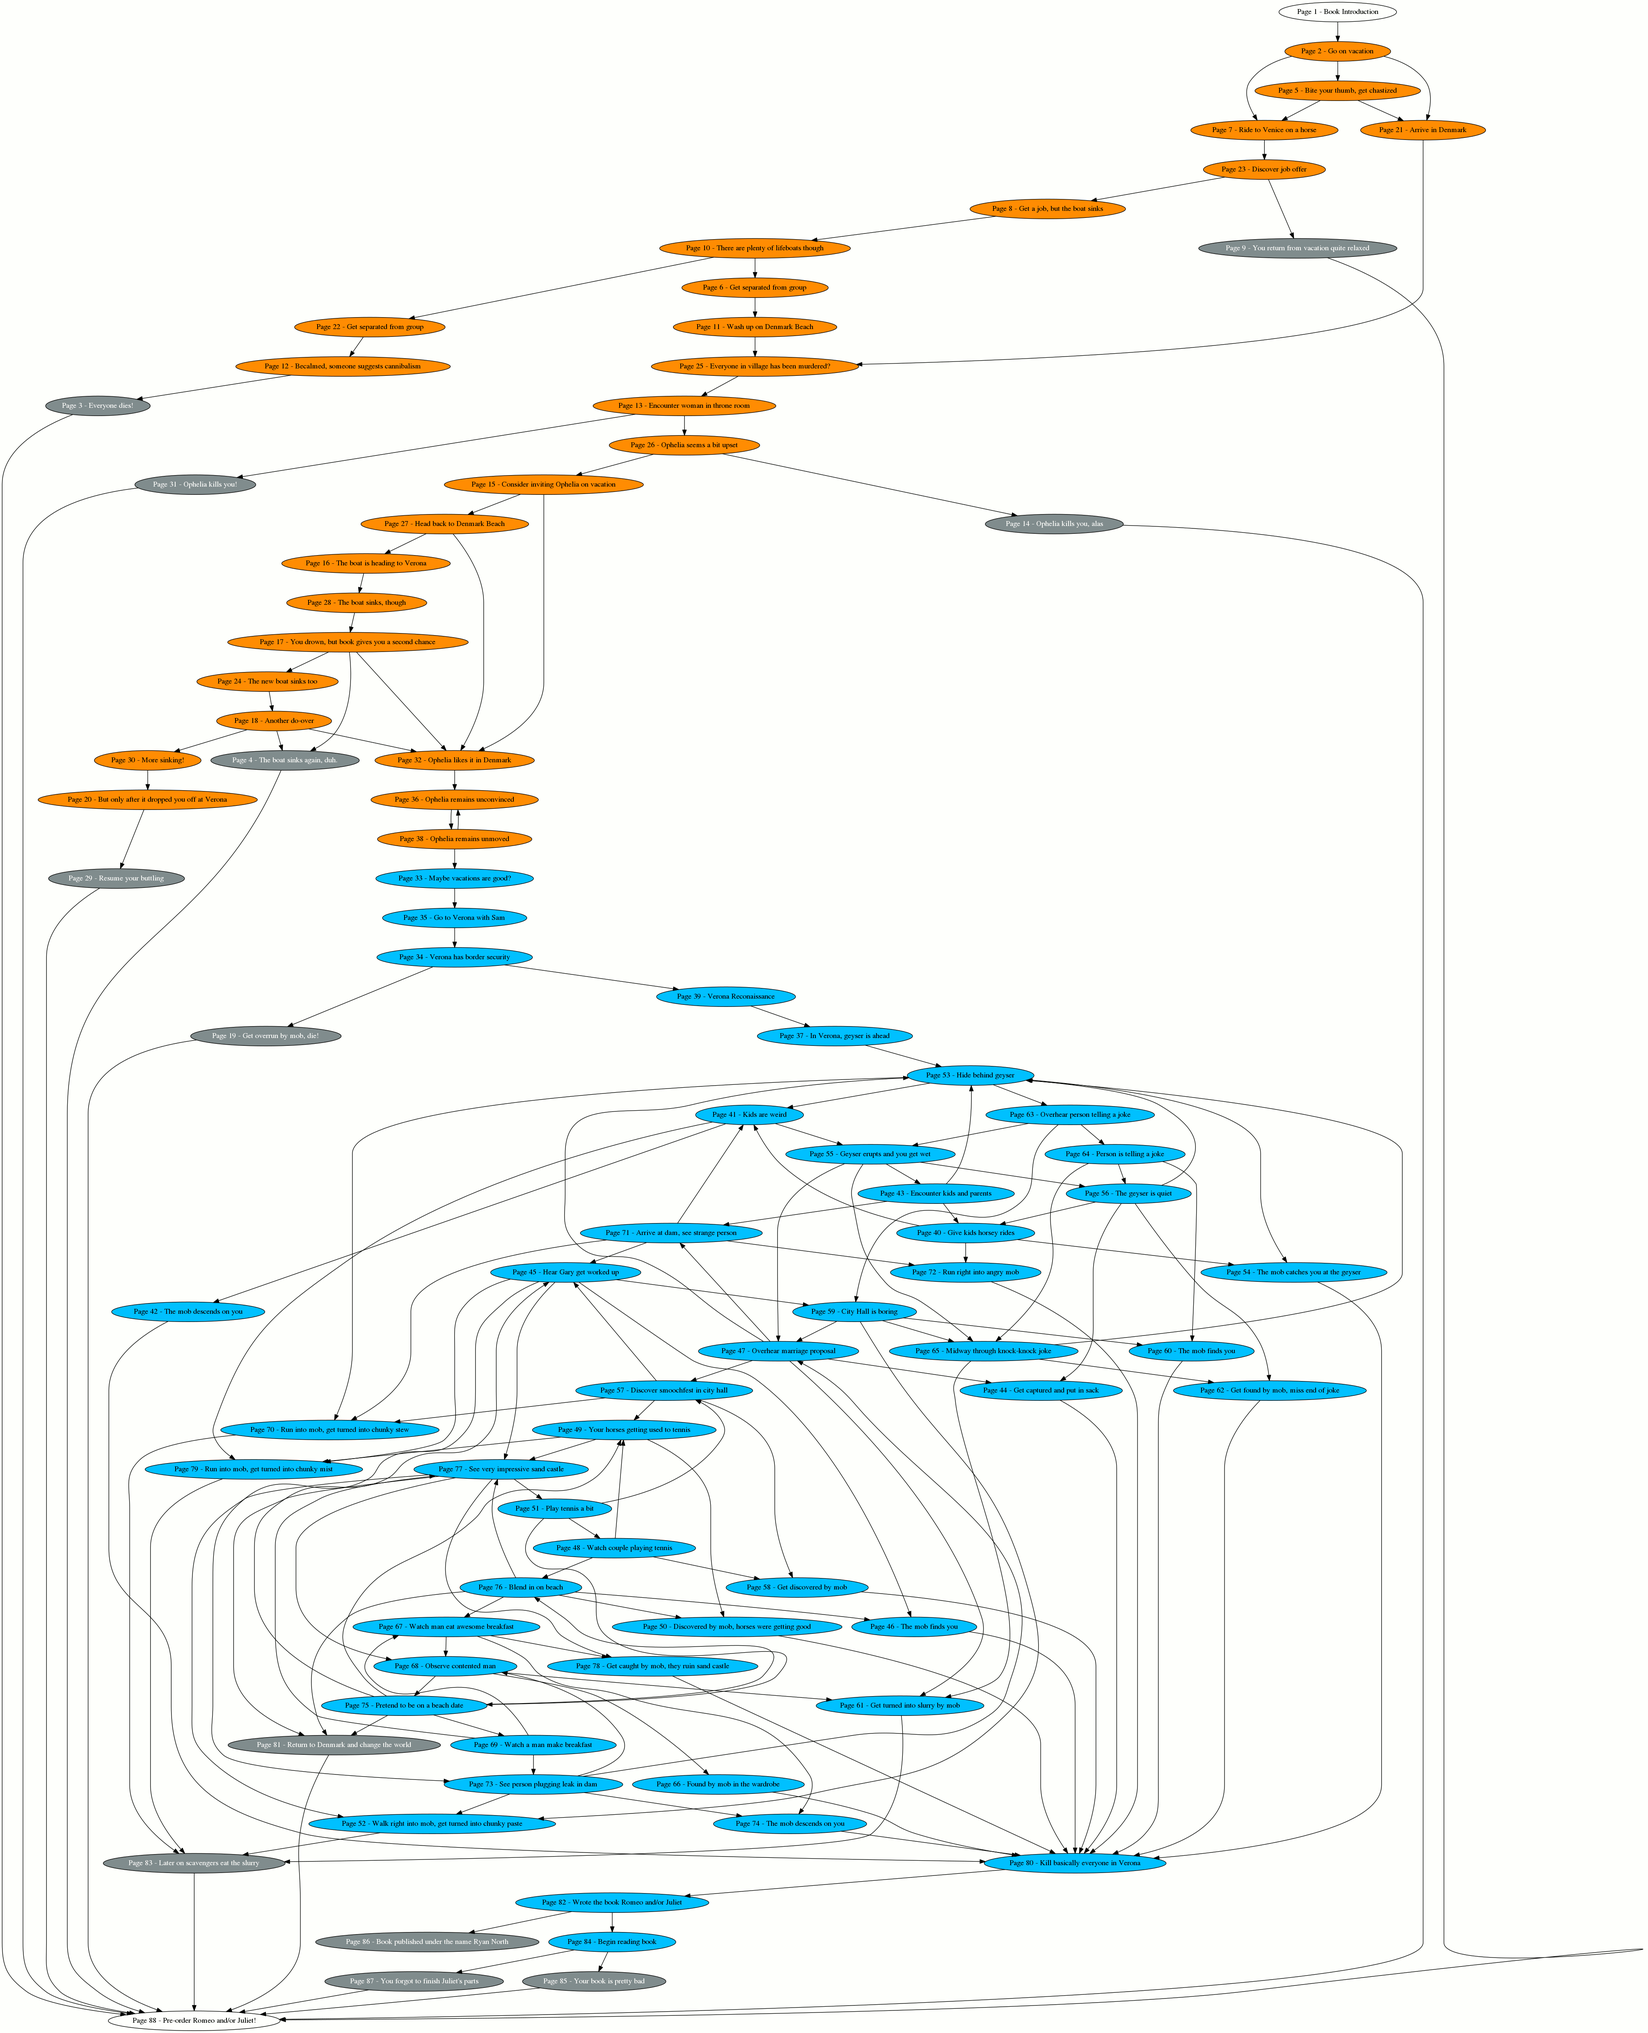
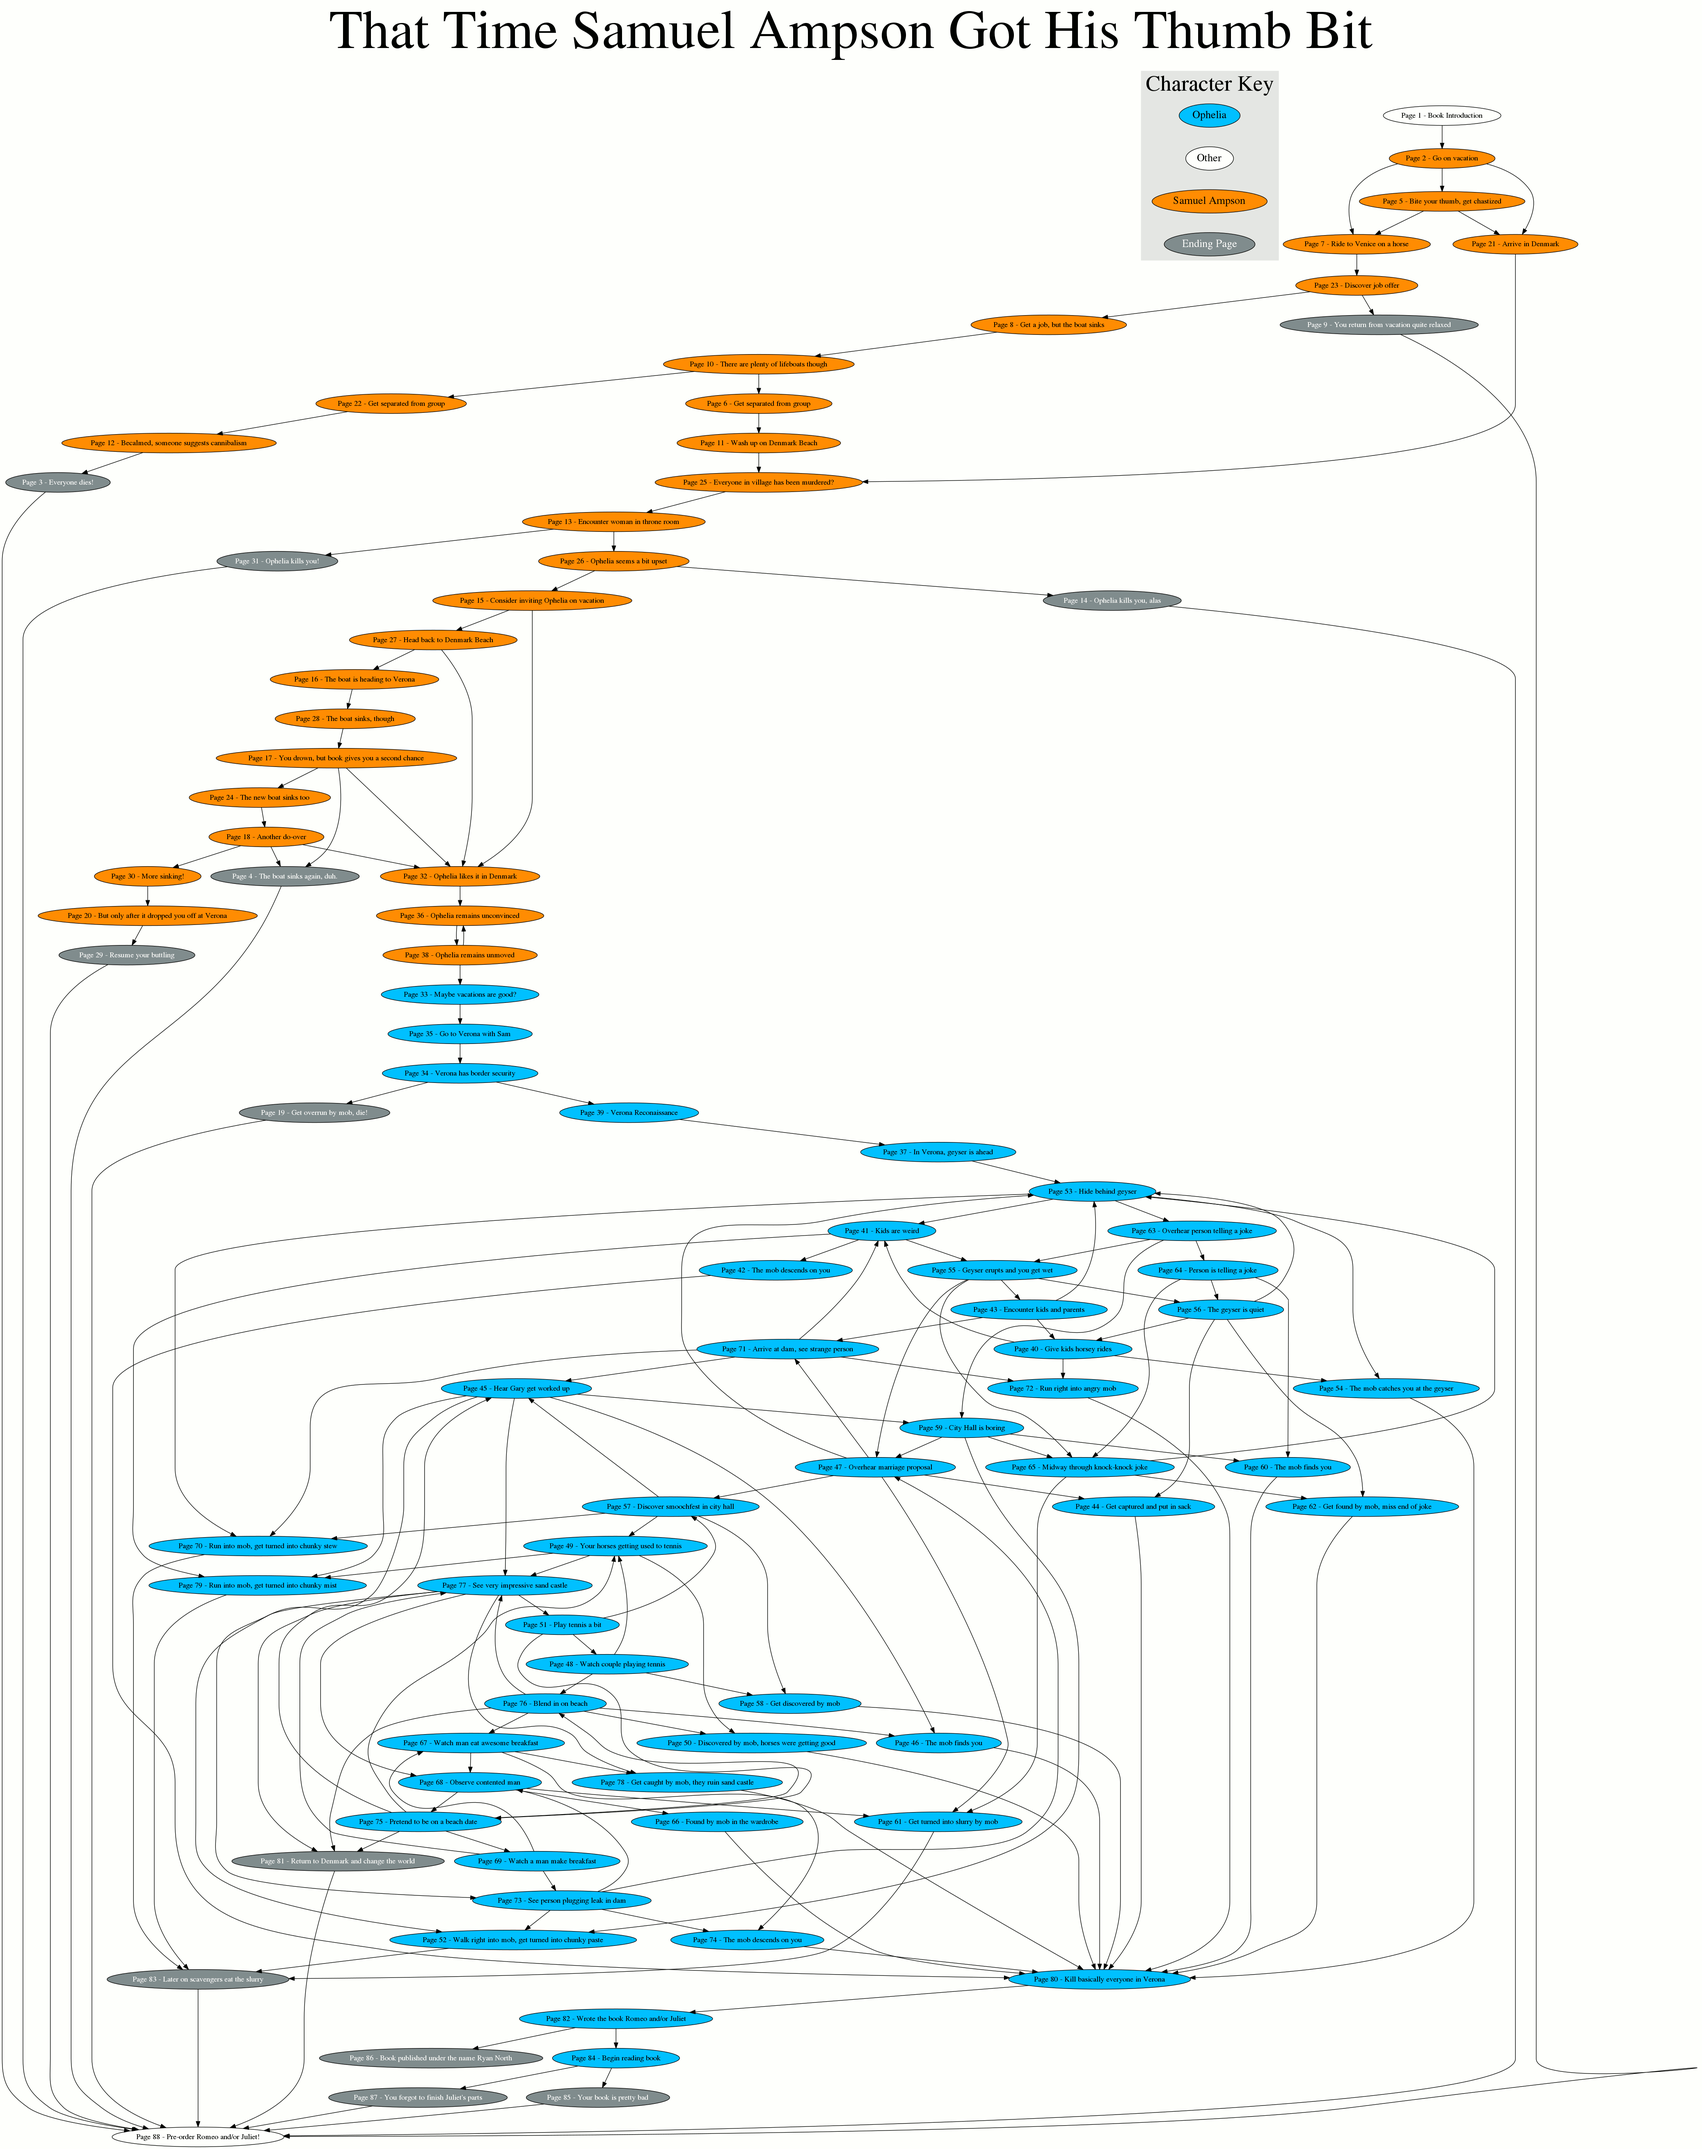
Added a character/shape key to the graphviz output, as well as header text

diff --git a/choosable.py b/choosable.py
@@ -1122,9 +1122,31 @@ class App(object):
             try:
                 pagenum = int(response)
             except ValueError:
+                # Since we support non-numeric page numbers, we should make sure
+                # to catch any values we might consider as reserved.  This is
+                # basically only important for graphviz graph generation, since
+                # we're using text-based labels for everything in there, and we
+                # don't want to introduce syntax errors or double-define any
+                # nodes.
                 if ' ' in response:
                     print('')
                     self.print_error('Page numbers cannot contain spaces')
+                    return None
+                elif response[:5] == 'char_':
+                    print('')
+                    self.print_error('Page numbers cannot start with "char_"')
+                    return None
+                elif response[:7] == 'cluster':
+                    print('')
+                    self.print_error('Page numbers cannot start with "cluster"')
+                    return None
+                elif response[:5] == 'shape':
+                    print('')
+                    self.print_error('Page numbers cannot start with "shape"')
+                    return None
+                elif response == 'ending':
+                    print('')
+                    self.print_error('Page numbers cannot be "ending"')
                     return None
                 pagenum = response
 
@@ -1381,6 +1403,51 @@ class App(object):
         fileparts = dot_filename.split('.')
         with open(dot_filename, 'w') as df:
             df.write("digraph %s {\n" % (fileparts[0]))
+
+            # Put a big ol' label on the top
+            df.write("\n");
+            df.write("\tlabelloc=\"t\";\n");
+            df.write("\tfontsize=100;\n");
+            df.write("\tlabel=\"%s\";\n" % (book.title.replace('"', '\\"')))
+
+            # Set up a character key
+            df.write("\n")
+            df.write("\t// Character key\n")
+            charlist = book.characters_sorted()
+            for (idx, char) in enumerate(charlist):
+                df.write("\tchar_%d [label=\"%s\" fontsize=20 fontcolor=%s fillcolor=%s style=\"filled\"];\n" % (
+                        idx, char.name.replace('"', '\\"'), char.fontcolor, char.fillcolor,
+                    ))
+            df.write("\tending [label=\"Ending Page\" fontsize=20 fontcolor=white fillcolor=azure4 style=\"filled\"];\n");
+            df.write("\tsubgraph cluster_charkey {\n");
+            df.write("\t\tedge[style=invis];\n");
+            df.write("\t\tfontsize = 40;\n");
+            df.write("\t\tlabel = \"Character Key\";\n");
+            df.write("\t\tstyle = \"filled\";\n");
+            df.write("\t\tcolor = \"gray90\";\n");
+            df.write("\t\t%s -> ending;\n" % (' -> '.join(['char_%d' % (i) for i in range(len(charlist))])))
+            df.write("\t}\n");
+
+            # Aand a shape key
+            has_canon = False
+            for page in book.pages_sorted():
+                if page.canonical:
+                    has_canon = True
+                    break
+            if has_canon:
+                # No need to have a shape key if there's no canon pages
+                df.write("\n")
+                df.write("\t// Shape key\n");
+                df.write("\tshape_canon [label=\"Square = Canonical Choice\" shape=box fontsize=20 fontcolor=black fillcolor=white style=\"bold,filled\"];\n");
+                df.write("\tshape_regular [label=\"Oval = Noncanonical Choice\" fontcolor=black fontsize=20 fillcolor=white style=\"filled\"];\n");
+                df.write("\tsubgraph cluster_shapekey {\n");
+                df.write("\t\tedge[style=invis];\n");
+                df.write("\t\tfontsize = 40;\n");
+                df.write("\t\tlabel = \"Shape Key\";\n");
+                df.write("\t\tstyle = \"filled\";\n");
+                df.write("\t\tcolor = \"gray90\";\n");
+                df.write("\t\tshape_canon -> shape_regular;\n");
+                df.write("\t}\n");
 
             # Set up a structure to hold page definitions simultaneously
             # for pages we've visited, and pages we haven't.  That way

diff --git a/README.md b/README.md
@@ -353,8 +353,6 @@ TODO
   a choice, you've got to delete it and then re-add.
 * There's also no way to modify the book title itself, though that
   could be easily edited by hand in the YAML file directly.
-* It'd be nice if the Graphviz dotfile included a little subgraph which
-  serves as a key of colors and shapes!
 * Strictly speaking, ending pages should really be using a different
   node shape, rather than a unique color (when generating Graphviz
   graphs).  I like that the ending color is very noticeable, though.
